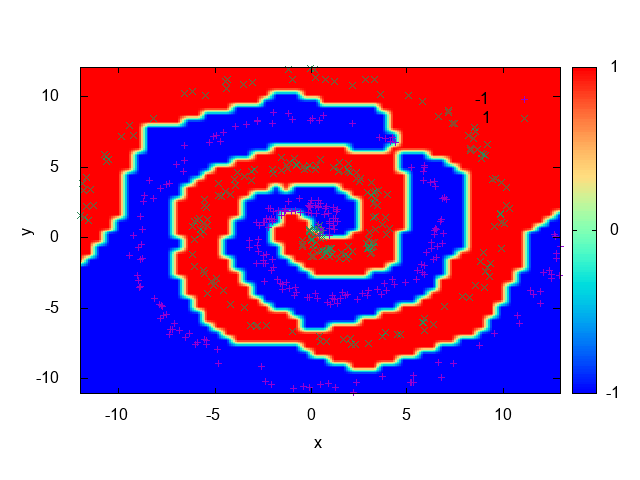
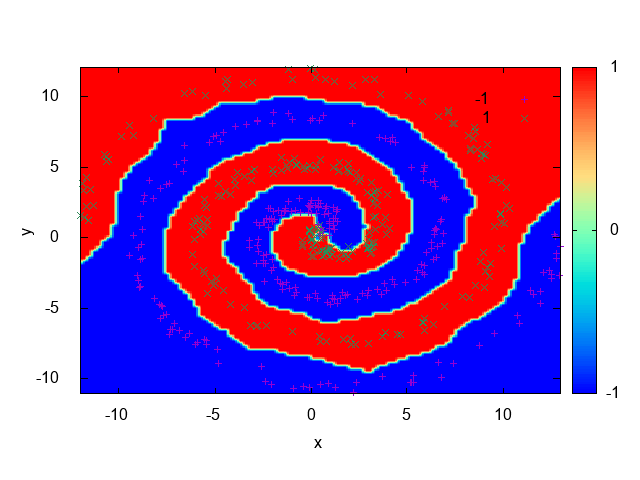
update classification docs

Changed region(s): [[0.125, 0.1562, 0.875, 0.7812]]

diff --git a/getting_started/classification.rst b/getting_started/classification.rst
@@ -90,11 +90,12 @@ The Perceptron dual algorithm
     int main() {
         auto data = mltk::datasets::make_spirals(500);
         vis::Visualization<> vis(data);
-        classifier::PerceptronDual<double> perceptron(data, mltk::KernelType::GAUSSIAN, 0.5);
+        classifier::PerceptronDual<double> perceptron(data, mltk::KernelType::GAUSSIAN, 1);
 
+        perceptron.setMaxTime(500);
         perceptron.train();
 
-        vis.plotDecisionSurface2D(perceptron, 0, 1, true);
+        vis.plotDecisionSurface2D(perceptron, 0, 1, true, 100);
         return 0;
     }
 
